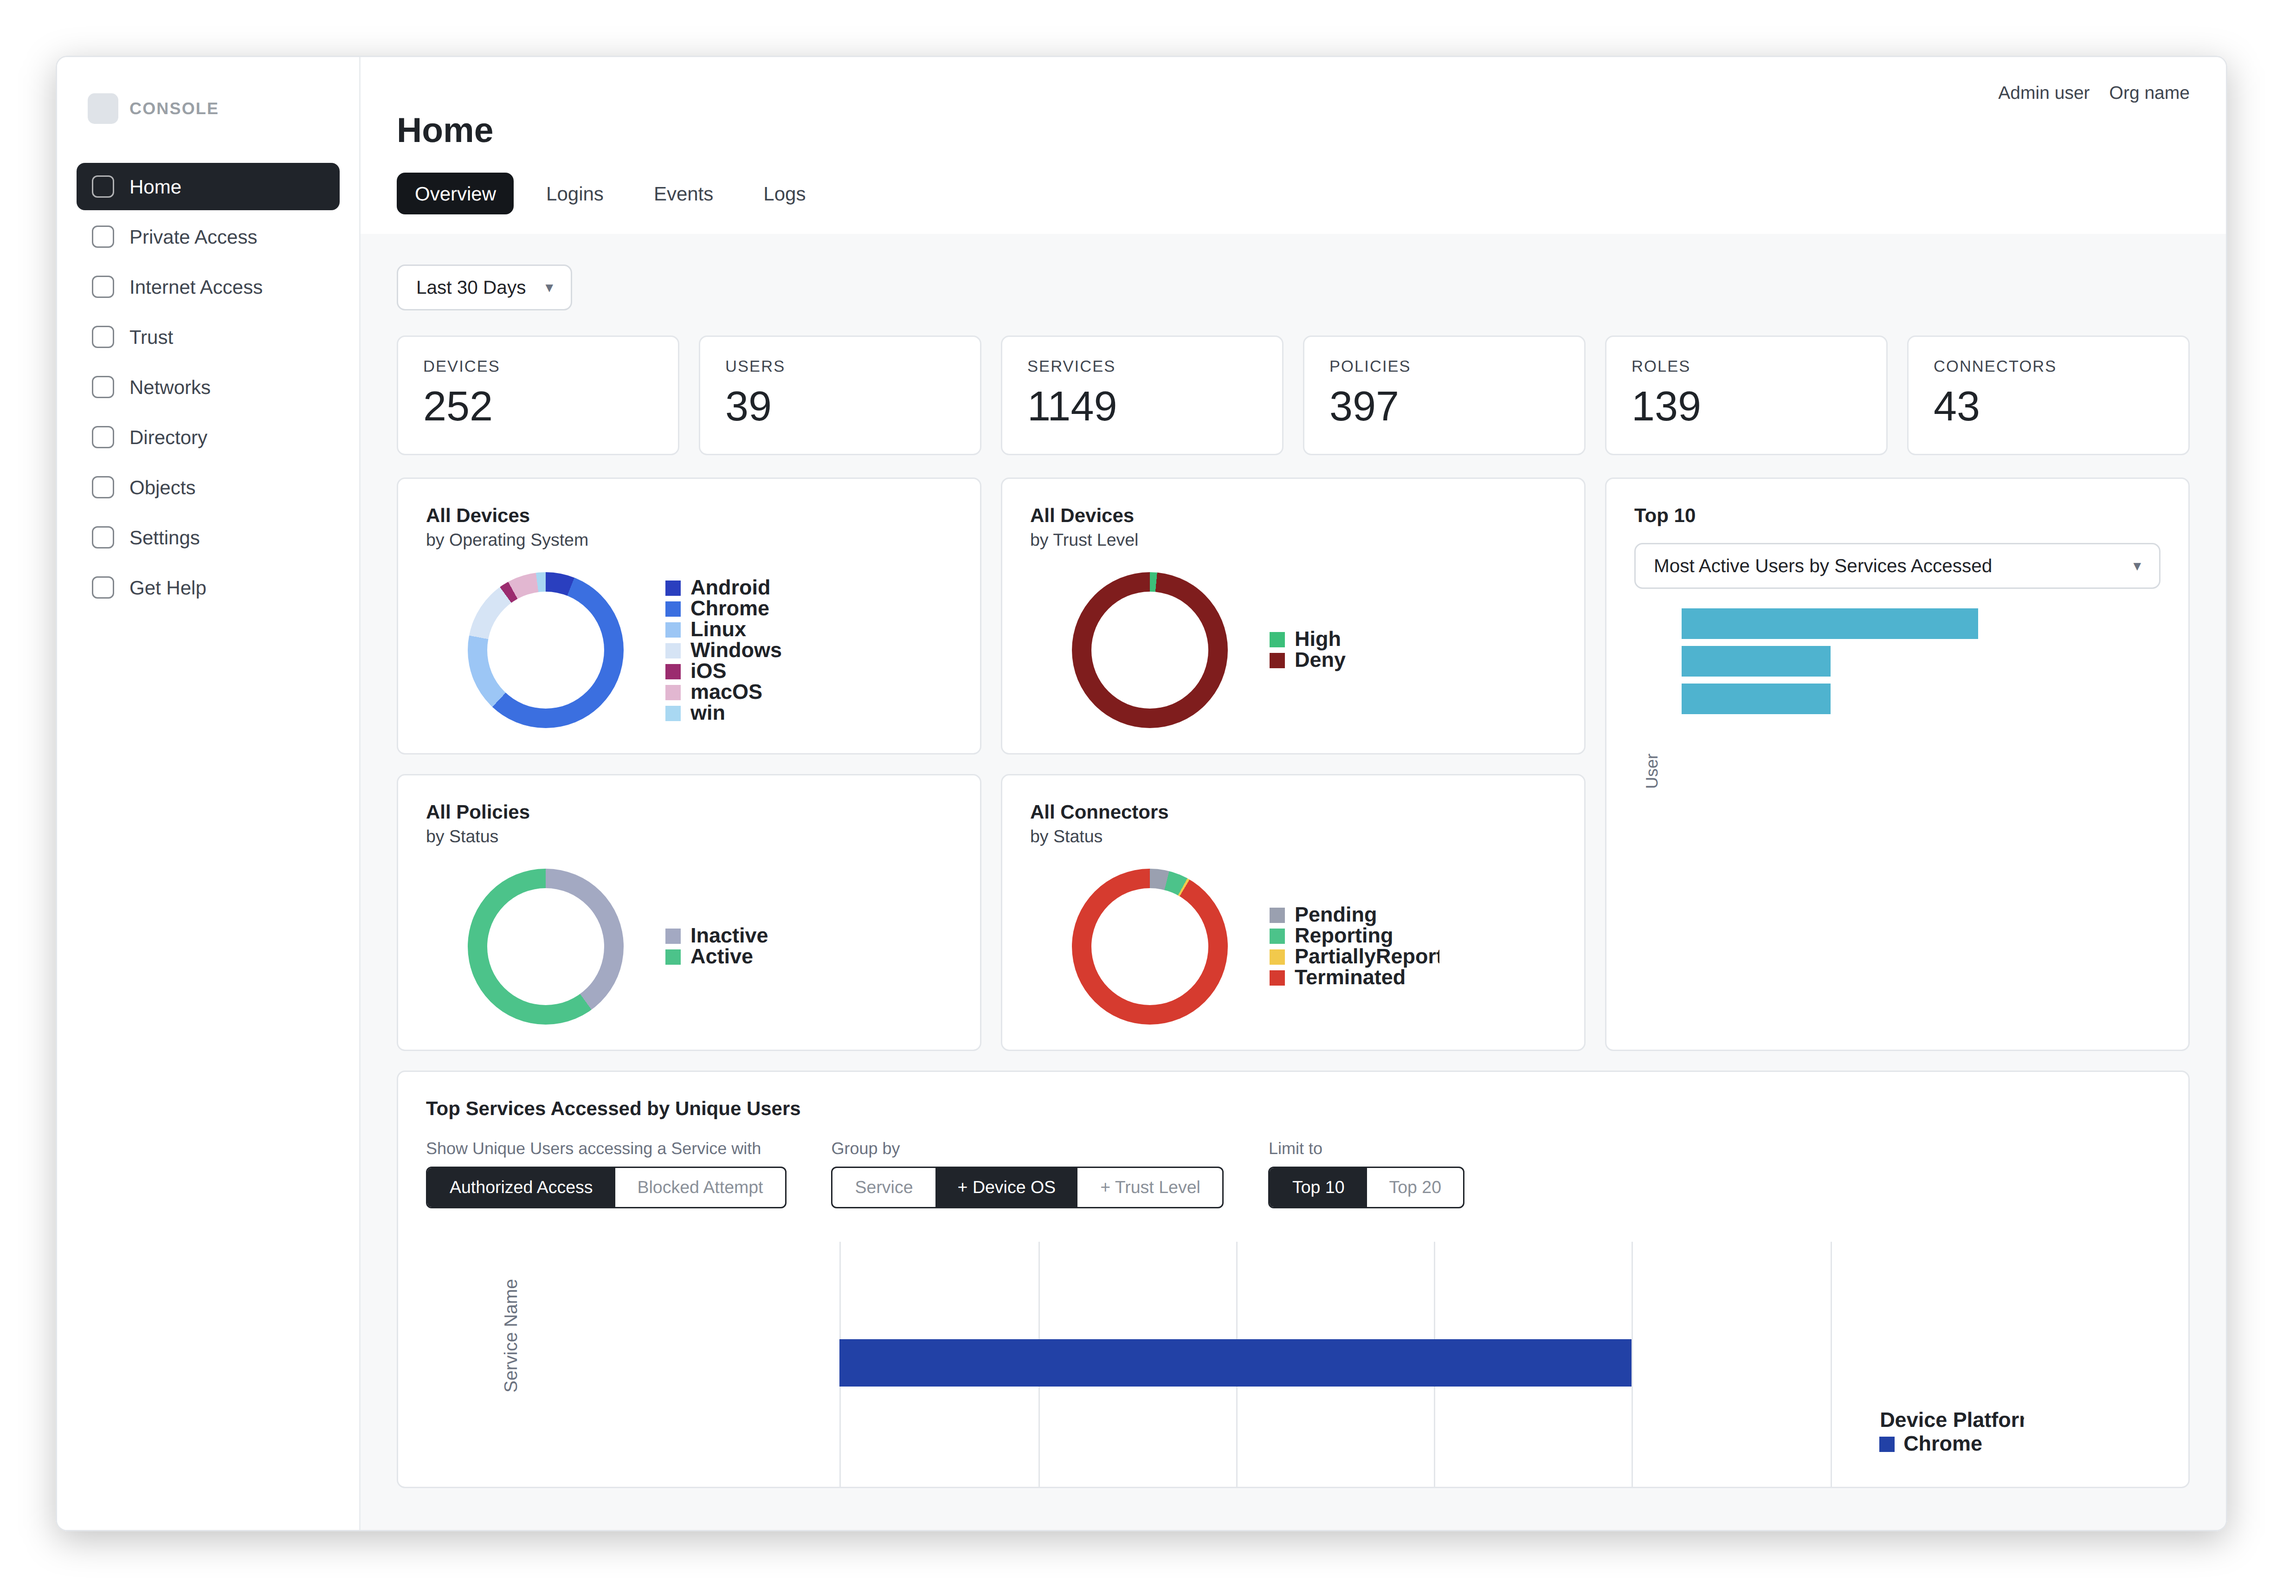
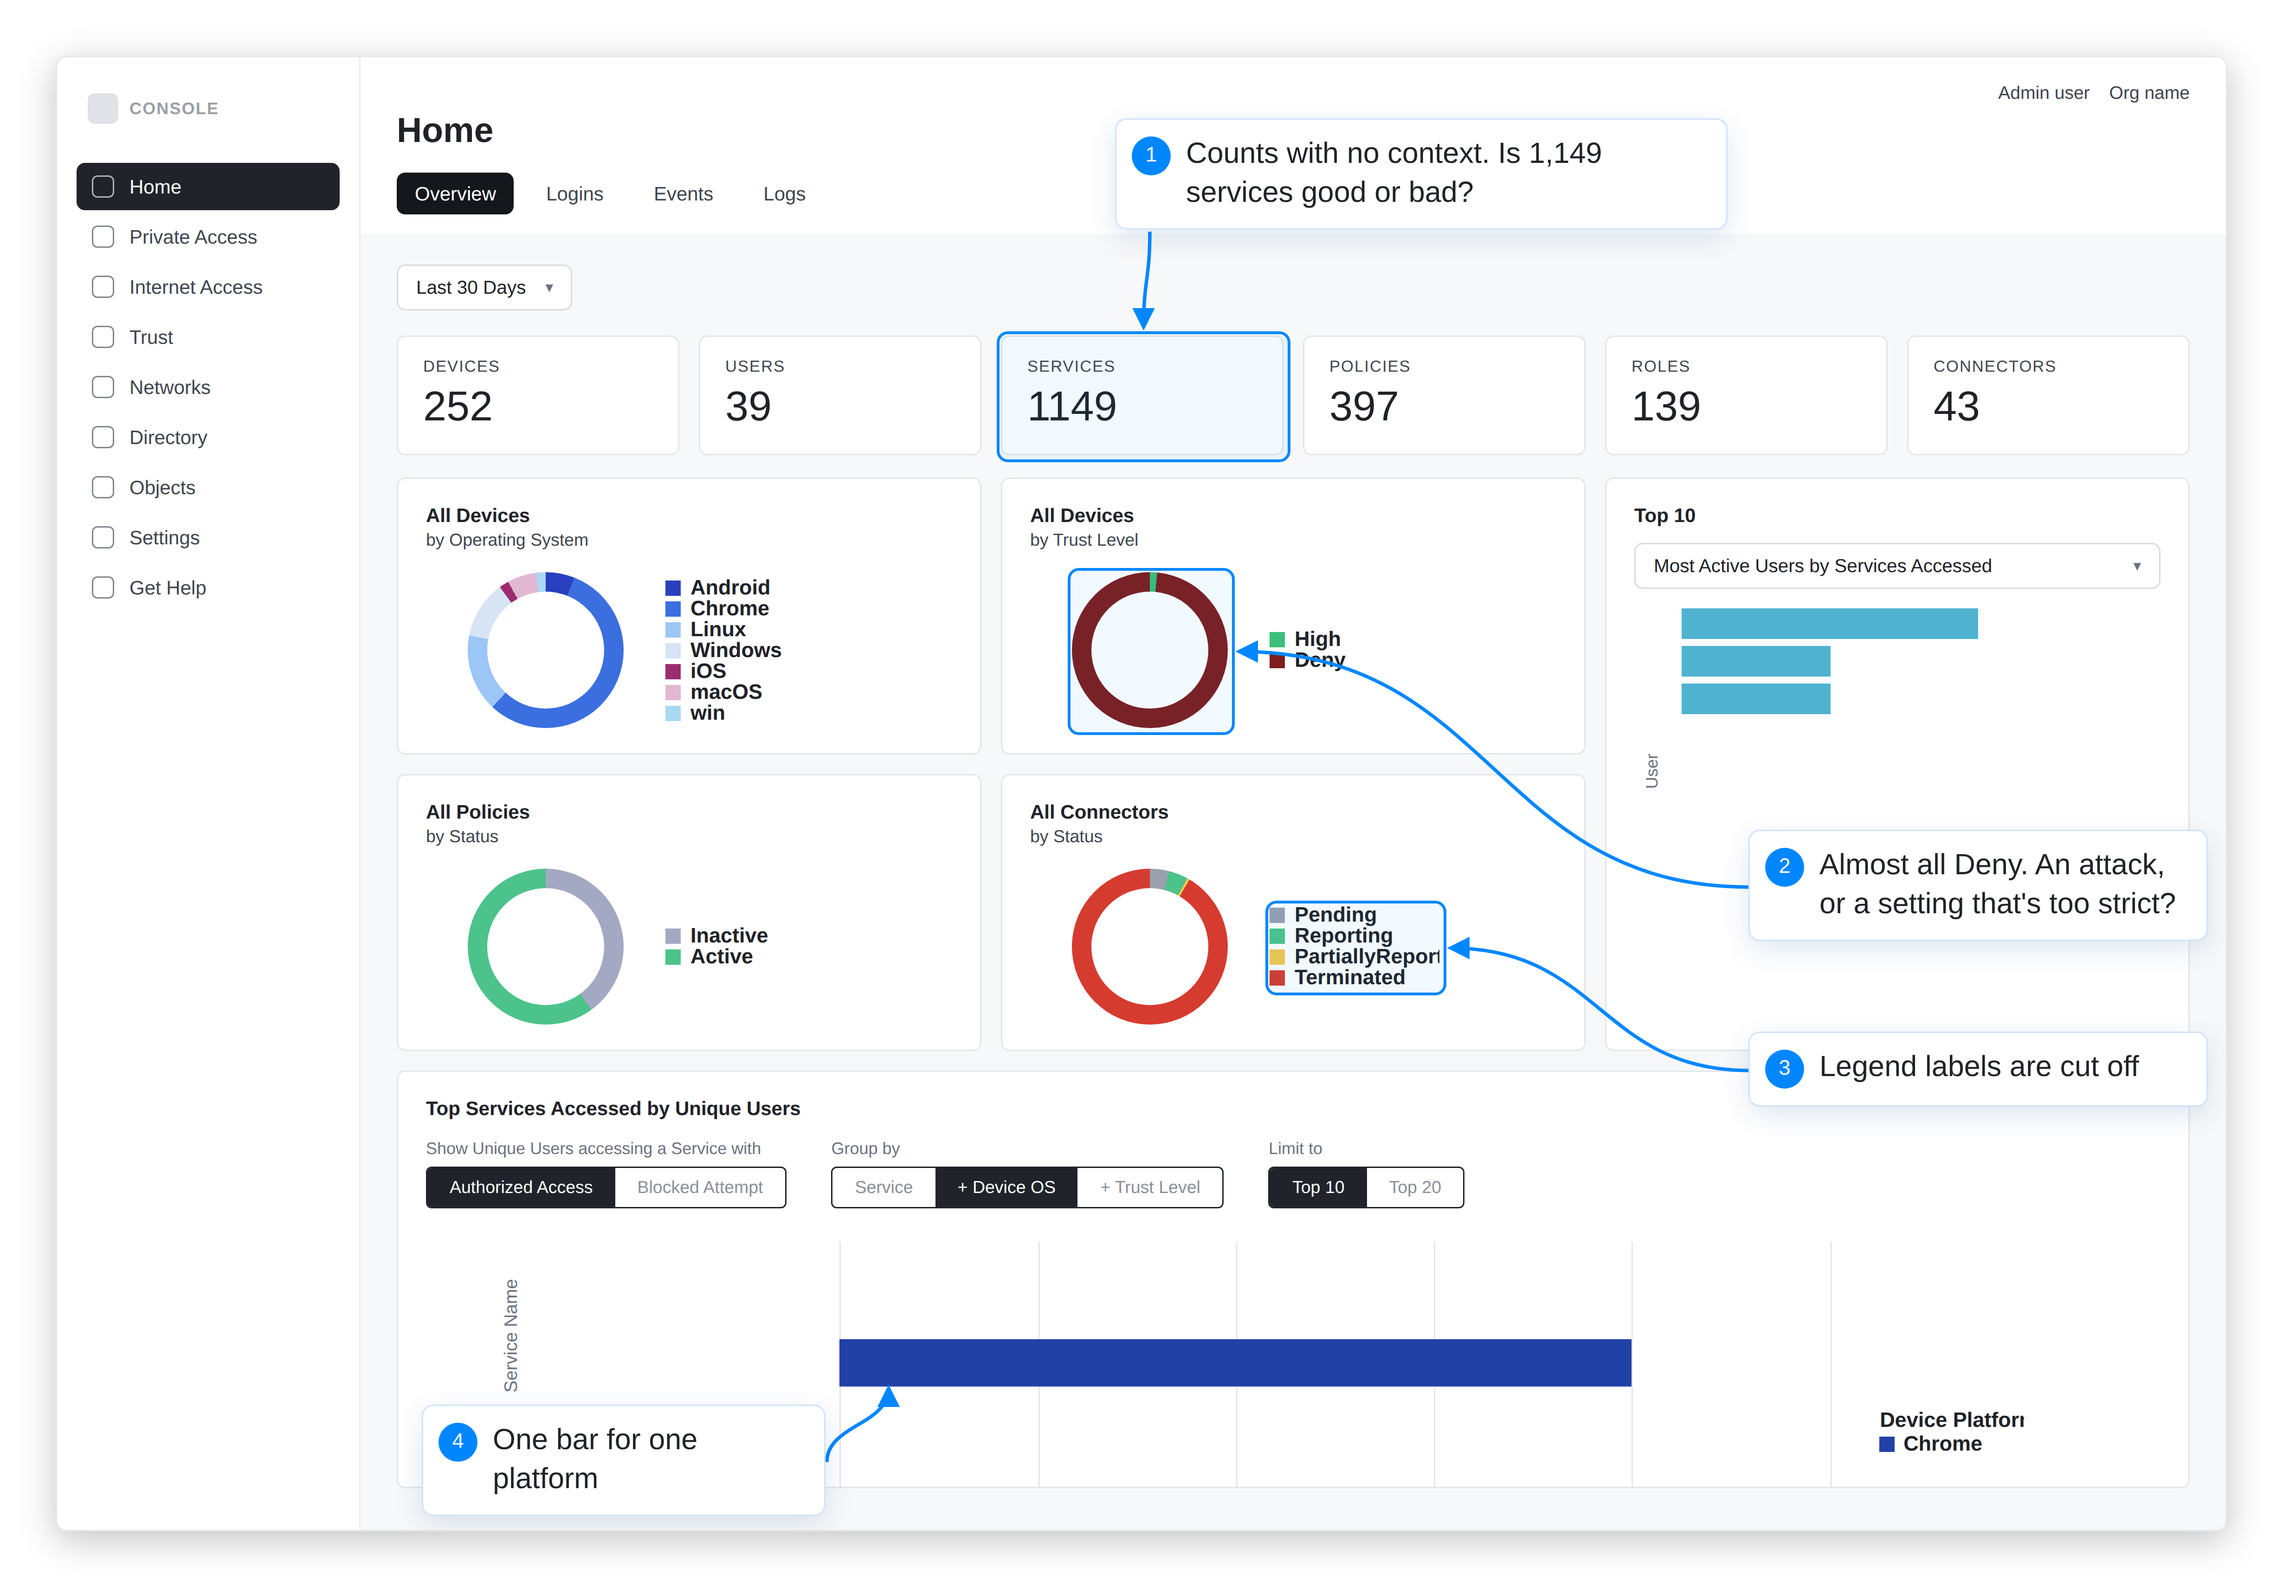
Annotate the problem visuals on every content design project in the site's style; move AI prompt's second prototype to the outcome
Claude-Session: https://claude.ai/code/session_01LSpc9GfWinUYVZHRac1AsR

diff --git a/docs/content-design/ai-prompt-visibility.md b/docs/content-design/ai-prompt-visibility.md
@@ -26,25 +26,11 @@ sidebar_position: 2
 
 ## What I tried
 
-I prototyped two ways to connect the decryption setting to logging.
-
-### First prototype
-
 My first prototype moved the decryption setting onto the logging screen, above the logging switch. The admin could finish setup in one place, so the warning was no longer needed.
 
 ![The first prototype. The decryption setting is directly above the logging switch, and a line confirms how many devices are logged.](/img/content-design/ai-prompt-after.png)
 
 <p className="shot-cap">The screen lists each Internet Threat Protection policy with the number of devices that it covers and a decryption switch. A line under the logging switch confirms how many devices Cloud Secure Edge is logging.</p>
-
-### Second prototype
-
-The second prototype puts the decryption switch inside the Internet Threat Protection policy, next to the policy's other settings. Decryption is a policy setting, so the policy is where admins expect to find it.
-
-![The second prototype. An Internet Threat Protection policy has a TLS decryption tab with a decryption switch, a list of the features that use decryption, and a list of categories that are never decrypted.](/img/content-design/ai-prompt-itp-policy.png)
-
-Under the switch, a **Used by** list names each feature that needs decryption and shows its status. AI prompt visibility appears there with the number of devices that it logs. An admin can see what turning off decryption would stop, and can open **Prompt Visibility** from the policy.
-
-A **Don't decrypt** list names the categories that the policy never decrypts, such as financial services and health. Admins can protect employee privacy in the same place where they turn on decryption.
 
 ## The constraint
 
@@ -53,5 +39,13 @@ Turning on logging couldn't turn on decryption for the admin. Decryption lets Cl
 Decryption also had to stay a single setting in the Internet Threat Protection policy. Other features depend on it too. A separate decryption switch for AI prompts would let the two settings disagree.
 
 ## The outcome
+
+The constraint pointed to a better home for the switch. The second prototype puts the decryption switch inside the Internet Threat Protection policy, next to the policy's other settings. Decryption is a policy setting, so the policy is where admins expect to find it.
+
+![The second prototype. An Internet Threat Protection policy has a TLS decryption tab with a decryption switch, a list of the features that use decryption, and a list of categories that are never decrypted.](/img/content-design/ai-prompt-itp-policy.png)
+
+Under the switch, a **Used by** list names each feature that needs decryption and shows its status. AI prompt visibility appears there with the number of devices that it logs. An admin can see what turning off decryption would stop, and can open **Prompt Visibility** from the policy.
+
+A **Don't decrypt** list names the categories that the policy never decrypts, such as financial services and health. Admins can protect employee privacy in the same place where they turn on decryption.
 
 Both designs are prototypes. The team hasn't built them yet. [Add a result.]

diff --git a/docs/content-design/device-geolocation-trust-factor.md b/docs/content-design/device-geolocation-trust-factor.md
@@ -16,15 +16,14 @@ sidebar_position: 1
 
 ## The problem
 
-![A prototype of the trust factor before the revision. The trust effect meter is above the country selector and its options.](/img/content-design/device-geolocation-before.png)
+![A prototype of the trust factor before the revision. Callout 1 points to the label, 2 to the Allowed and Blocked switch at the far right, 3 to the country list, which has no rule under it, and 4 to the trust effect meter above the settings.](/img/content-design/device-geolocation-before.png)
 
-<p className="shot-cap">The trust effect meter at the top shows what happens to a device that fails the check. The meter appears before the settings that control it. The <b>Allowed</b> and <b>Blocked</b> switch is at the far right, away from the label that it completes.</p>
+In this example, the admin selected Algeria and set the switch to **Blocked**. That means a device passes the check only if it is outside Algeria.
 
-The label said "Select the countries where devices with this Trust Factor are:". The sentence makes sense only if you read the **Allowed** and **Blocked** switch at the far right as its last word.
-
-In the prototype, the admin selected Algeria and set the switch to **Blocked**. That setting means a device passes the check only if it is outside Algeria. A device in Algeria fails the check, and the trust effect meter decides what happens to it next.
-
-The screen never stated that rule in words. An admin who read the switch the other way would think that devices in Algeria pass. They would save a policy that did the opposite of what they wanted, and nothing on the screen would warn them.
+1. **The label is an unfinished sentence.** "Select the countries where devices with this Trust Factor are:" ends in a colon. It makes sense only if you read the switch as its last word.
+2. **The switch that finishes it is at the far right.** The **Allowed** and **Blocked** switch sits across the screen from the label that it completes.
+3. **Nothing states the rule.** An admin who read the switch the other way would think that devices in Algeria pass. They would save a policy that did the opposite of what they wanted, and nothing on the screen would warn them.
+4. **The result comes first.** The trust effect meter shows what happens to a device that fails the check. It appears above the settings that decide which devices fail.
 
 ## What I tried
 

diff --git a/docs/content-design/console-homepage.md b/docs/content-design/console-homepage.md
@@ -16,15 +16,16 @@ sidebar_position: 4
 
 ## The problem
 
-![A prototype of the homepage before the redesign. Six counts sit above five charts that split devices, policies, and connectors by type or status.](/img/content-design/console-home-before.png)
+![A prototype of the homepage before the redesign. Callout 1 points to the Services count, 2 to a trust level chart that is almost all Deny, 3 to a legend cut off mid-word, and 4 to a chart with a single bar.](/img/content-design/console-home-before.png)
 
 <p className="shot-cap">Six counts and five charts, filtered to the last 30 days. Every chart describes what the organization has. None of them says whether the product is working.</p>
 
-The homepage answered questions that admins don't ask when they sign in. It counted devices, users, services, policies, roles, and connectors. Its charts split those counts by operating system or by status.
+The homepage answered questions that admins don't ask when they sign in.
 
-A count with no context doesn't tell an admin what to do. 1,149 services is neither good nor bad. A trust level chart that's almost all **Deny** could mean an attack, or a trust setting that's too strict. The screen didn't say which.
-
-The charts also hid what little they showed. Legends were cut off mid-word, and one chart had a single bar for a single platform.
+1. **Counts with no context.** It counted devices, users, services, policies, roles, and connectors. 1,149 services is neither good nor bad.
+2. **Charts that don't say what to do.** A trust level chart that's almost all **Deny** could mean an attack, or a trust setting that's too strict. The screen didn't say which.
+3. **Labels cut off.** Legends were cut off mid-word, so admins couldn't always tell what a color meant.
+4. **Nothing to compare.** One chart had a single bar for a single platform.
 
 ## What I tried
 
